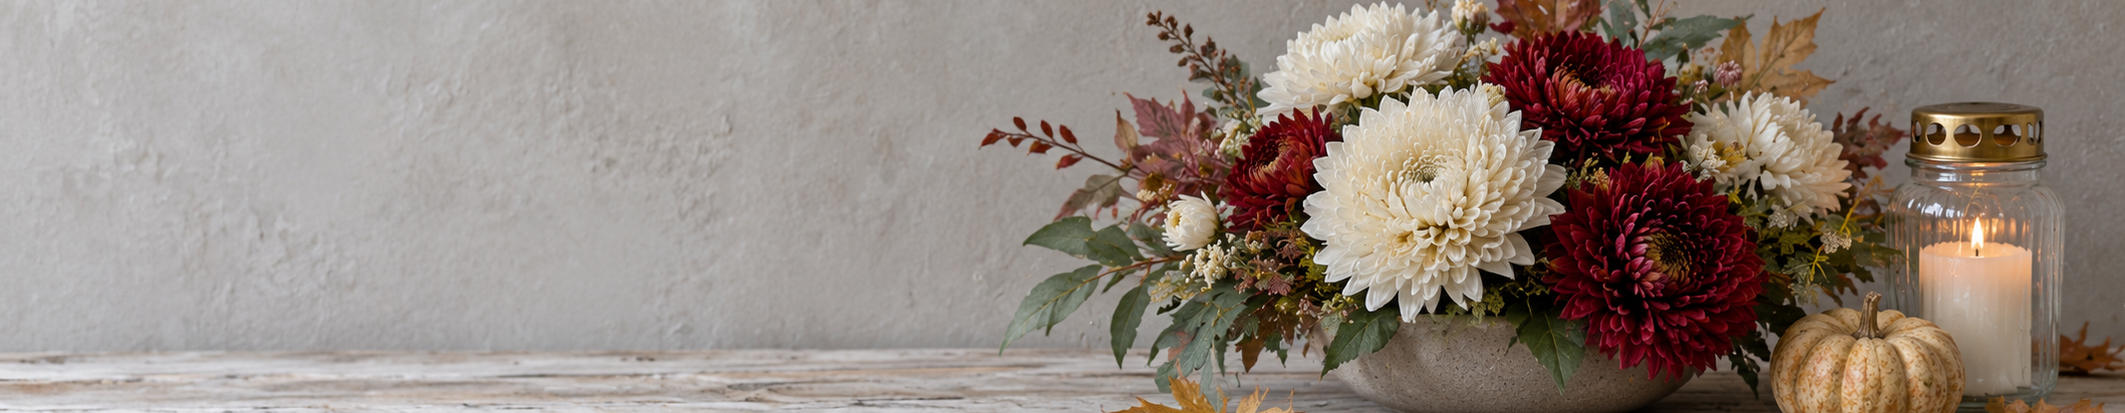
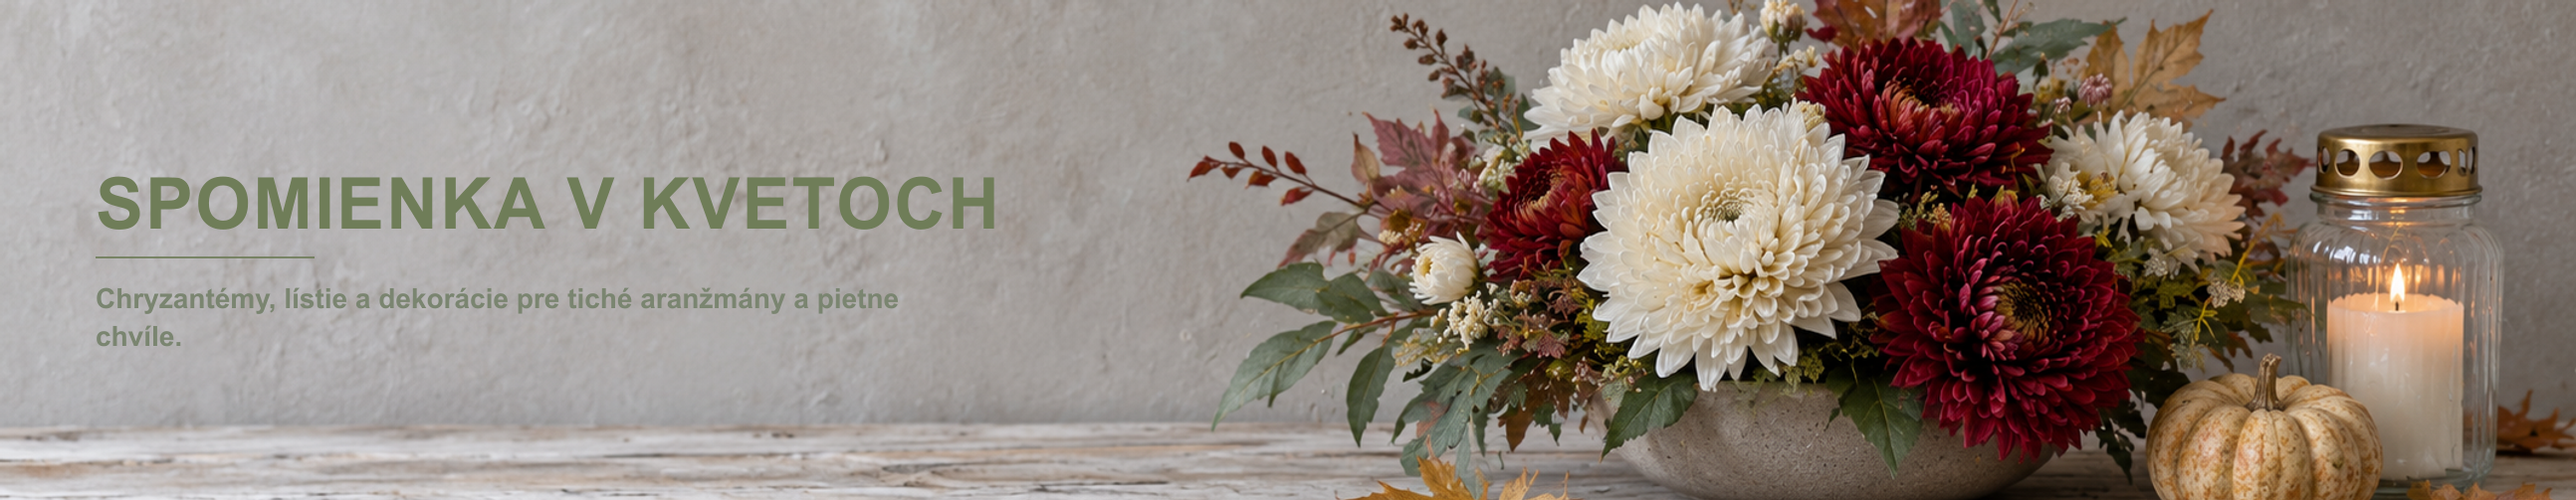
Serve Dušičky hero as high-quality baked image without HTML text.

diff --git a/src/components/HeroBanner.tsx b/src/components/HeroBanner.tsx
@@ -27,9 +27,6 @@ const slides: BannerSlide[] = [
     href: "/produkty",
     alt: "PACIDEKOR - Dušičky: pietne aranžmány a dekorácie",
     ctaLabel: "Všetky produkty",
-    title: "Spomienka v kvetoch",
-    subtitle:
-      "Chryzantémy, lístie a dekorácie pre tiché aranžmány a pietne chvíle.",
   },
   {
     desktopSrc: "/bannervsetko.webp",
@@ -288,8 +285,8 @@ export function HeroBanner() {
       <Image
         src="/bannerdusickydesktop.webp"
         alt=""
-        width={2135}
-        height={415}
+        width={2588}
+        height={503}
         priority
         quality={100}
         sizes="80vw"
@@ -350,26 +347,25 @@ export function HeroBanner() {
             isDragging ? "opacity-0" : "opacity-100"
           } transition-opacity duration-200`}
         >
-          <div className="absolute inset-y-0 left-0 flex w-[55%] max-w-xl items-center px-5 sm:px-8 md:px-10 lg:px-12">
+          {/* Soft wash on the empty left side for legibility */}
+          <div
+            className="absolute inset-y-0 left-0 w-[58%] max-w-[50%] bg-gradient-to-r from-[#f3efe9]/88 via-[#f3efe9]/55 to-transparent sm:w-[50%]"
+            aria-hidden
+          />
+          <div className="absolute inset-y-0 left-0 flex w-[50%] max-w-lg items-center px-5 sm:px-8 md:px-10 lg:px-12">
             <div className="w-full max-w-md">
               {activeSlide.eyebrow ? (
                 <p className="font-sans text-[0.7rem] font-bold tracking-[0.2em] text-[#75825B] uppercase sm:text-xs">
                   {activeSlide.eyebrow}
                 </p>
               ) : null}
-              <p className="font-heading text-2xl font-bold uppercase leading-tight tracking-[0.04em] text-[#75825B] sm:text-3xl md:text-4xl lg:text-[2.5rem]">
+              <p className="mt-2 font-heading text-2xl font-bold uppercase leading-tight tracking-[0.04em] text-[#2f2924] sm:text-3xl md:text-4xl lg:text-[2.5rem]">
                 {activeSlide.title}
               </p>
               {activeSlide.subtitle ? (
-                <>
-                  <div
-                    className="mt-3 h-px w-16 bg-[#75825B]/70 sm:mt-3.5 sm:w-20"
-                    aria-hidden
-                  />
-                  <p className="mt-3 max-w-sm text-sm leading-relaxed text-[#2f2924]/80 sm:mt-3.5 sm:text-base">
-                    {activeSlide.subtitle}
-                  </p>
-                </>
+                <p className="mt-2.5 max-w-sm text-sm leading-relaxed text-[#2f2924]/75 sm:mt-3 sm:text-base">
+                  {activeSlide.subtitle}
+                </p>
               ) : null}
             </div>
           </div>
